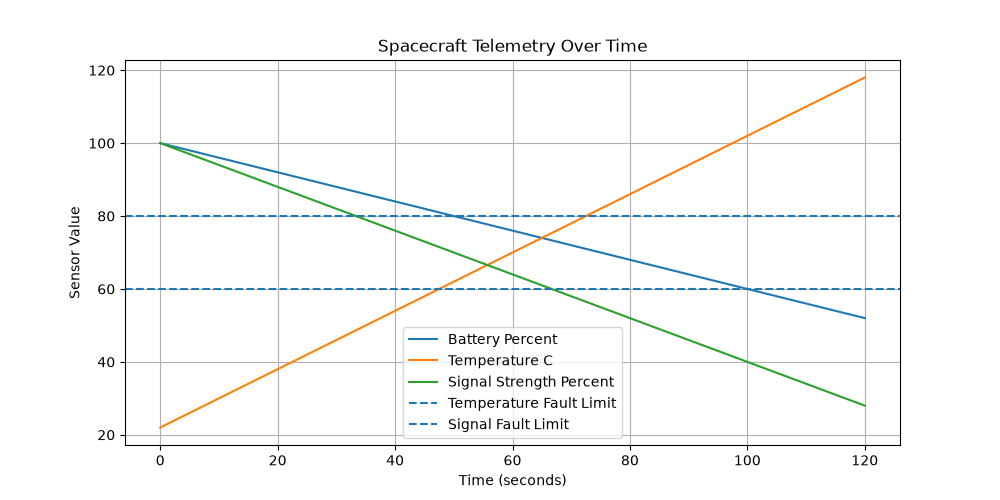
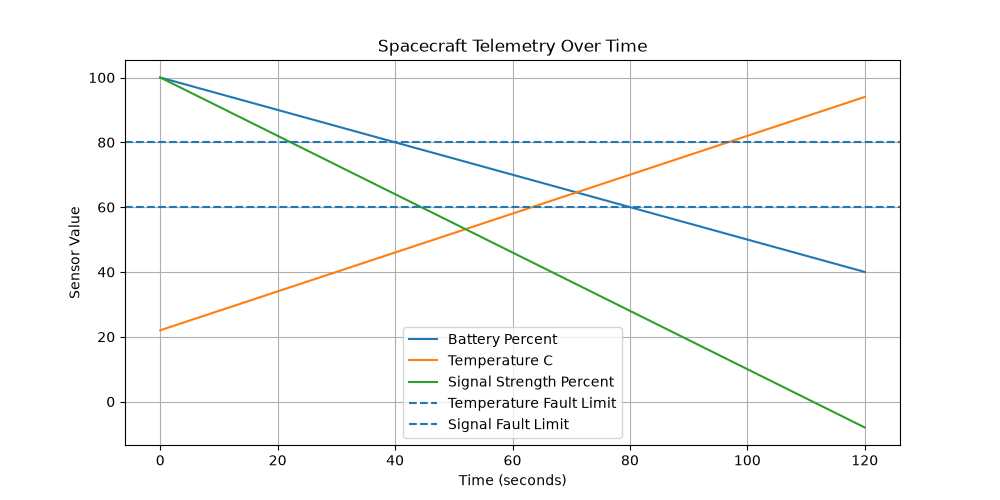
Complete V3 mission profile outputs

diff --git a/run.py b/run.py
@@ -1,33 +1,22 @@
-"""
-Mini Flight Software Simulator V2
-
-Goal:
-Simulate a simple spacecraft flight software loop using multiple files.
-
-The software:
-1. Reads simulated spacecraft sensor data.
-2. Checks for faults.
-3. Chooses the correct spacecraft mode.
-4. Generates spacecraft subsystem commands.
-5. Logs telemetry.
-6. Detects important mission events.
-7. Saves telemetry to a CSV file.
-8. Creates a telemetry plot.
-"""
-
 from sensors import read_sensors
 from flight_logic import check_faults, choose_mode
 from telemetry import save_telemetry_csv
 from plotting import plot_telemetry
 from commands import generate_commands
 from event_log import detect_events, save_event_log
+from mission_profiles import (
+    get_mission_profile,
+    LOW_EARTH_ORBIT,
+    GEOSTATIONARY_ORBIT,
+    LUNAR_TRANSFER,
+    DEEP_SPACE_CRUISE
+)
+
+
+SELECTED_MISSION = LUNAR_TRANSFER
 
 
 def print_status(time_s, mode, sensors, fault):
-    """
-    Print one line of spacecraft status.
-    """
-
     print(
         f"Time: {time_s:03d}s"
         f" | Mode: {mode}"
@@ -39,10 +28,6 @@ def print_status(time_s, mode, sensors, fault):
 
 
 def print_commands(commands):
-    """
-    Print one line of spacecraft command status.
-    """
-
     print(
         f"Commands:"
         f" Payload={commands['payload_power']}"
@@ -52,10 +37,6 @@ def print_commands(commands):
 
 
 def should_print_status(time_s, new_events):
-    """
-    Decide when to print mission status to the terminal.
-    """
-
     if time_s % 10 == 0:
         return True
 
@@ -65,12 +46,9 @@ def should_print_status(time_s, new_events):
     return False
 
 
-def create_telemetry_record(time_s, mode, sensors, fault, commands):
-    """
-    Create one telemetry record for the current mission time.
-    """
-
+def create_telemetry_record(time_s, mission_profile, mode, sensors, fault, commands):
     telemetry_record = {
+        "mission_name": mission_profile["name"],
         "time_s": time_s,
         "mode": mode,
         "battery_percent": sensors["battery_percent"],
@@ -81,16 +59,16 @@ def create_telemetry_record(time_s, mode, sensors, fault, commands):
         "cooling_system": commands["cooling_system"],
         "antenna_mode": commands["antenna_mode"]
     }
-
     return telemetry_record
 
 
 def run_mission():
-    """
-    Run the full spacecraft flight software simulation.
-    """
-
     print("Starting flight software simulation.")
+    print("-" * 90)
+
+    mission_profile = get_mission_profile(SELECTED_MISSION)
+
+    print("Selected mission:", mission_profile["name"])
     print("-" * 90)
 
     telemetry_log = []
@@ -98,8 +76,8 @@ def run_mission():
     previous_mode = None
     previous_fault = None
 
-    for time_s in range(0, 121):
-        sensors = read_sensors(time_s)
+    for time_s in range(0, mission_profile["duration_s"]):
+        sensors = read_sensors(time_s, mission_profile)
         fault = check_faults(sensors)
         mode = choose_mode(time_s, fault, sensors)
         commands = generate_commands(mode)
@@ -112,8 +90,6 @@ def run_mission():
             fault
         )
 
-    
-
         mission_events.extend(new_events)
 
         previous_mode = mode
@@ -121,6 +97,7 @@ def run_mission():
 
         telemetry_record = create_telemetry_record(
             time_s,
+            mission_profile,
             mode,
             sensors,
             fault,
@@ -139,11 +116,12 @@ def run_mission():
     for event in mission_events:
         print(event)
 
-    save_event_log(mission_events)
-    save_telemetry_csv(telemetry_log)
-    plot_telemetry(telemetry_log)
+    save_event_log(mission_events,mission_profile)
+    save_telemetry_csv(telemetry_log, mission_profile)
+    plot_telemetry(telemetry_log, mission_profile)
 
     print("Telemetry records saved:", len(telemetry_log))
+    print("Saved mission_events.txt")
     print("Saved telemetry.csv")
     print("Saved telemetry_plot.png")
     print("Mission complete.")

diff --git a/mission_profiles.py b/mission_profiles.py
@@ -1,0 +1,47 @@
+LOW_EARTH_ORBIT = "LOW_EARTH_ORBIT"
+GEOSTATIONARY_ORBIT = "GEOSTATIONARY_ORBIT"
+LUNAR_TRANSFER = "LUNAR_TRANSFER"
+DEEP_SPACE_CRUISE = "DEEP_SPACE_CRUISE"
+
+
+MISSION_PROFILES = {
+    LOW_EARTH_ORBIT: {
+        "name": "Low Earth Orbit",
+        "duration_s": 121,
+        "battery_drain_rate": 0.4,
+        "temperature_rise_rate": 0.8,
+        "signal_loss_rate": 0.6
+    },
+
+        GEOSTATIONARY_ORBIT: {
+        "name": "Geostationary Orbit",
+        "duration_s": 121,
+        "battery_drain_rate": 0.3,
+        "temperature_rise_rate": 0.5,
+        "signal_loss_rate": 0.2
+    },
+
+       LUNAR_TRANSFER: {
+        "name": "Lunar Transfer",
+        "duration_s": 121,
+        "battery_drain_rate": 0.5,
+        "temperature_rise_rate": 0.6,
+        "signal_loss_rate": 0.9
+    },
+
+    DEEP_SPACE_CRUISE: {
+        "name": "Deep Space Cruise",
+        "duration_s": 121,
+        "battery_drain_rate": 0.6,
+        "temperature_rise_rate": 0.4,
+        "signal_loss_rate": 1.1
+    }
+}
+
+
+def get_mission_profile(mission_type):
+    """
+    Return the settings for the selected mission type.
+    """
+
+    return MISSION_PROFILES[mission_type]

diff --git a/telemetry.py b/telemetry.py
@@ -1,25 +1,29 @@
 import csv
 
 
-def save_telemetry_csv(telemetry_log):
+def save_telemetry_csv(telemetry_log, mission_profile):
     """
     Save telemetry records to a CSV file.
     """
 
-    with open("telemetry.csv", "w", newline="") as file:
+    mission_slug = mission_profile["name"].lower().replace(" ", "_")
+    telemetry_filename = f"telemetry_{mission_slug}.csv"
+
+    with open(telemetry_filename, "w", newline="") as file:
         writer = csv.DictWriter(
             file,
-            fieldnames=[
-                "time_s",
-                "mode",
-                "battery_percent",
-                "temperature_c",
-                "signal_strength_percent",
-                "fault",
-                "payload_power",
-                "cooling_system",
-                "antenna_mode"
-            ]
+            fieldnames = [
+    "mission_name",
+    "time_s",
+    "mode",
+    "battery_percent",
+    "temperature_c",
+    "signal_strength_percent",
+    "fault",
+    "payload_power",
+    "cooling_system",
+    "antenna_mode"
+]
         )
 
         writer.writeheader()

diff --git a/event_log.py b/event_log.py
@@ -18,14 +18,13 @@ def detect_events(time_s, previous_mode, current_mode, previous_fault, current_f
     return events
 
 
-def save_event_log(mission_events):
-    """
-    Save mission events to a text file.
-    """
+def save_event_log(mission_events, mission_profile):
+    mission_slug = mission_profile["name"].lower().replace(" ", "_")
+    event_filename = f"mission_events_{mission_slug}.txt"
 
-    with open("mission_events.txt", "w") as file:
-        file.write("Mission Events\n")
-        file.write("==============\n\n")
+    with open(event_filename, "w") as file:
+        file.write(f"Mission: {mission_profile['name']}\n")
+        file.write("-" * 40 + "\n")
 
         for event in mission_events:
             file.write(event + "\n")

diff --git a/sensors.py b/sensors.py
@@ -1,11 +1,14 @@
-def read_sensors(time_s):
+def read_sensors(time_s, mission_profile):
     """
     Simulate spacecraft sensor readings at a given mission time.
+
+    The mission_profile controls how fast battery, temperature,
+    and signal strength change during the mission.
     """
 
-    battery_percent = 100 - 0.4 * time_s
-    temperature_c = 22 + 0.8 * time_s
-    signal_strength_percent = 100 - 0.6 * time_s
+    battery_percent = 100 - mission_profile["battery_drain_rate"] * time_s
+    temperature_c = 22 + mission_profile["temperature_rise_rate"] * time_s
+    signal_strength_percent = 100 - mission_profile["signal_loss_rate"] * time_s
 
     sensors = {
         "battery_percent": battery_percent,

diff --git a/plotting.py b/plotting.py
@@ -1,7 +1,7 @@
 import matplotlib.pyplot as plt
 
 
-def plot_telemetry(telemetry_log):
+def plot_telemetry(telemetry_log, mission_profile):
     """
     Create a plot of spacecraft telemetry over time.
     """
@@ -28,9 +28,11 @@ def plot_telemetry(telemetry_log):
 
     plt.xlabel("Time (seconds)")
     plt.ylabel("Sensor Value")
-    plt.title("Spacecraft Telemetry Over Time")
+    plt.title(f"Spacecraft Telemetry — {mission_profile['name']}")
     plt.legend()
     plt.grid(True)
 
-    plt.savefig("telemetry_plot.png")
+    mission_slug = mission_profile["name"].lower().replace(" ", "_")
+    plot_filename = f"telemetry_plot_{mission_slug}.png"
+    plt.savefig(plot_filename)
     plt.close()